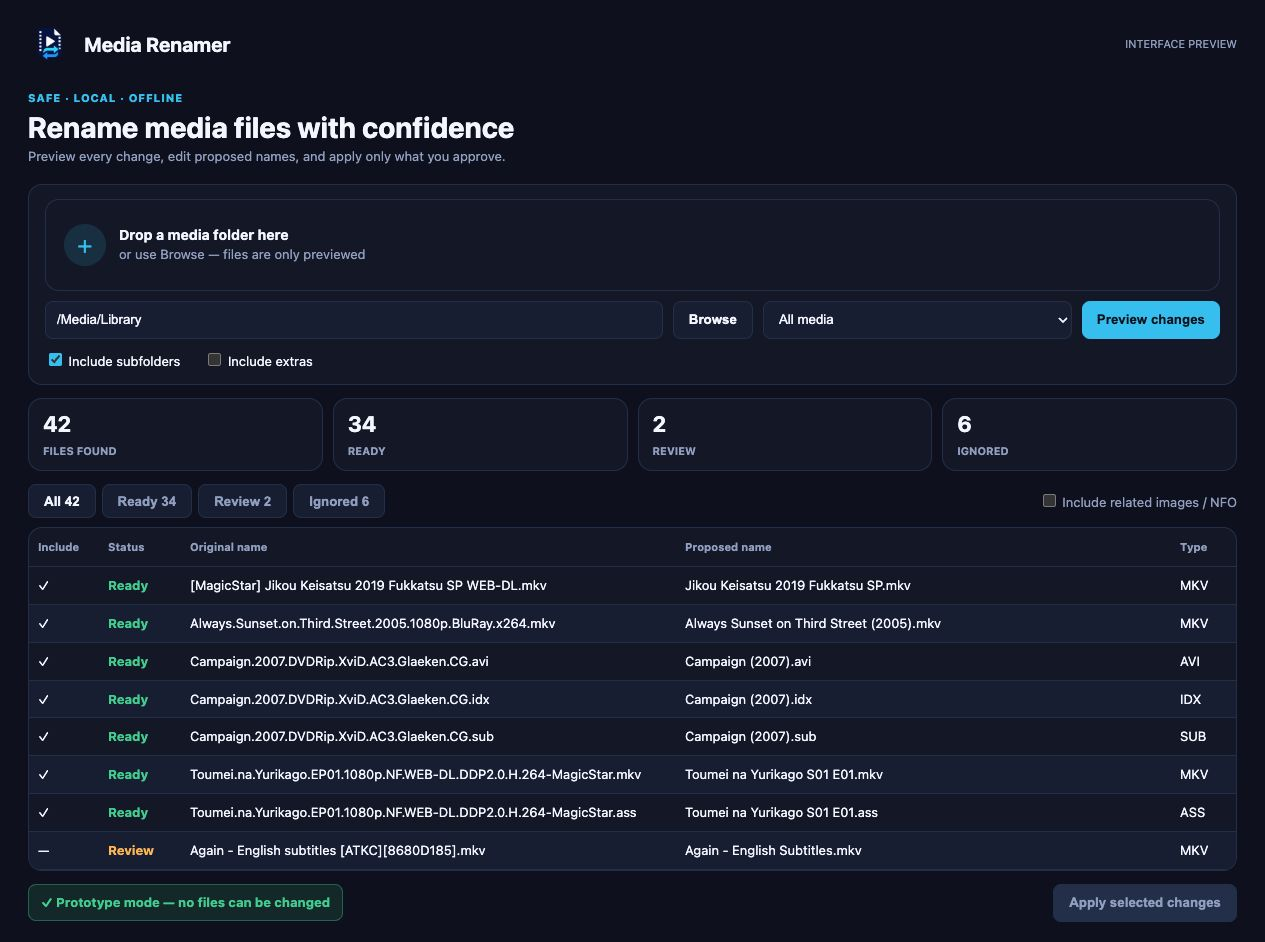
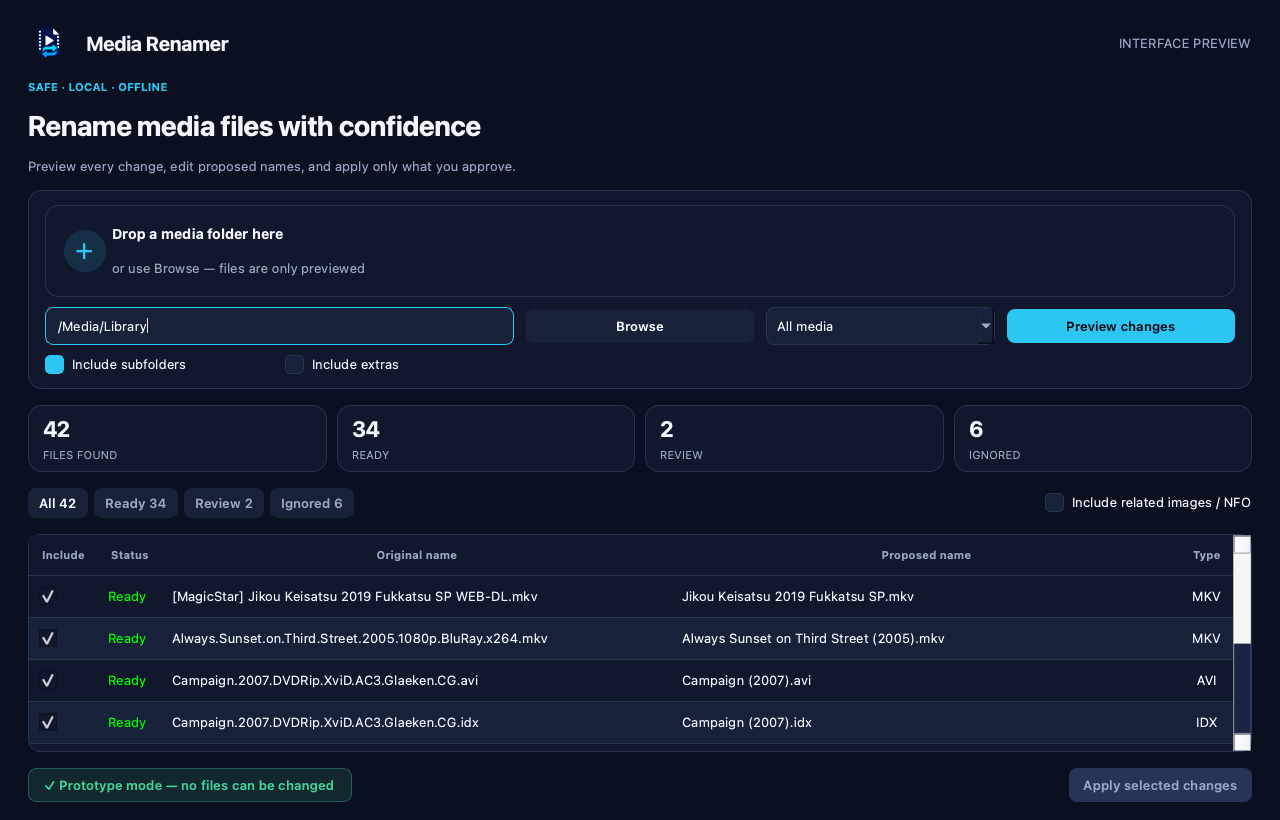
test: verify PySide6 interface prototype

diff --git a/src/media_renamer/core.py b/src/media_renamer/core.py
@@ -8,11 +8,10 @@ import sys
 import threading
 import uuid
 from collections import defaultdict
+from collections.abc import Iterable
 from dataclasses import dataclass, field
 from datetime import datetime, timezone
 from pathlib import Path
-from typing import Iterable
-
 
 VIDEO_EXTENSIONS = {".mkv", ".mp4", ".avi", ".mov", ".m4v", ".wmv", ".webm", ".mpg", ".mpeg", ".ts", ".m2ts", ".rmvb"}
 SUBTITLE_EXTENSIONS = {".srt", ".ass", ".ssa", ".sub", ".vtt", ".idx", ".sup"}

diff --git a/src/media_renamer/__main__.py b/src/media_renamer/__main__.py
@@ -2,7 +2,6 @@
 
 from .cli import main
 
-
 if __name__ == "__main__":
     raise SystemExit(main())
 
